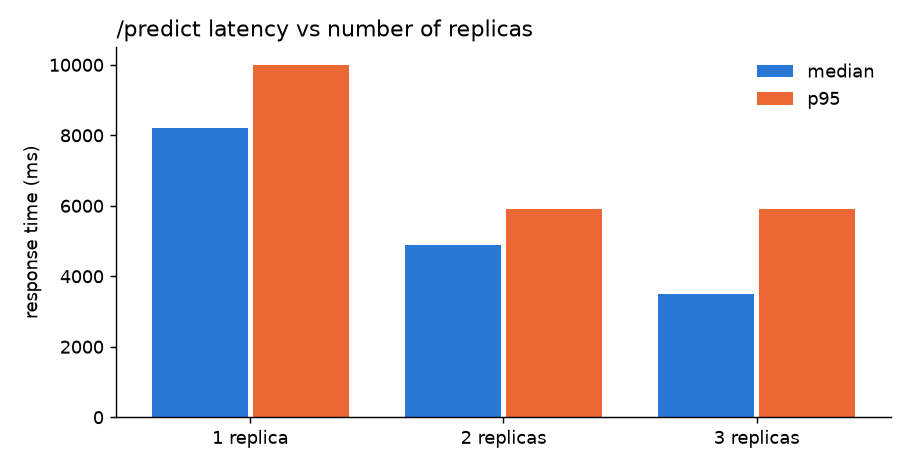
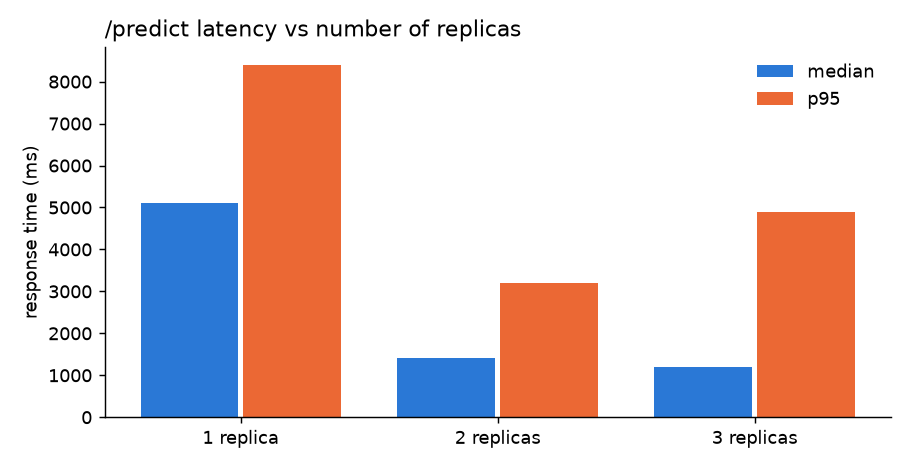
Update load test results and scripts
- Modified the summary of load test results in `summary.md` to reflect updated metrics for local worker configurations.
- Changed the load testing script `run_load_tests_local.py` to use the Python executable directly instead of the locust executable for better compatibility.

diff --git a/scripts/run_load_tests_local.py b/scripts/run_load_tests_local.py
@@ -13,7 +13,6 @@ from pathlib import Path
 
 ROOT = Path(__file__).resolve().parent.parent
 PY = sys.executable
-LOCUST = str(Path(PY).with_name("locust.exe" if os.name == "nt" else "locust"))
 USERS = sys.argv[1] if len(sys.argv) > 1 else "30"
 DURATION = sys.argv[2] if len(sys.argv) > 2 else "60s"
 PORT = 8001
@@ -41,7 +40,7 @@ for n in (1, 2, 3):
     try:
         wait_ready()
         time.sleep(20 * n)  # let every worker finish loading the model
-        subprocess.run([LOCUST, "-f", "locust/locustfile.py", "--host", f"http://localhost:{PORT}", "--headless",
+        subprocess.run([PY, "-m", "locust", "-f", "locust/locustfile.py", "--host", f"http://localhost:{PORT}", "--headless",
                         "-u", USERS, "-r", "5", "-t", DURATION, "--csv", str(RES / f"local_{n}_workers"),
                         "--only-summary"], cwd=ROOT, check=False)
     finally:

diff --git a/README.md b/README.md
@@ -207,18 +207,19 @@ locust -f locust/locustfile.py --host http://localhost:8000   # → http://local
 
 | Replicas | Requests | Failures | Avg (ms) | Median (ms) | p95 (ms) | p99 (ms) | Throughput (req/s) |
 |---:|---:|---:|---:|---:|---:|---:|---:|
-| 1 | 167 | 0 | 8,264 | 8,200 | 10,000 | 10,000 | 2.88 |
-| 2 | 274 | 0 | 4,879 | 4,900 | 5,900 | 6,900 | 4.56 |
-| 3 | 361 | 0 | 3,660 | 3,500 | 5,900 | 8,000 | 5.97 |
+| 1 | 252 | 0 | 4,949 | 5,100 | 8,400 | 8,900 | 4.50 |
+| 2 | 630 | 0 | 1,572 | 1,400 | 3,200 | 5,700 | 10.45 |
+| 3 | 606 | 0 | 1,681 | 1,200 | 4,900 | 6,100 | 10.08 |
 
 ![latency chart](locust/results/latency.png)
 
-**Interpretation.** A single prediction takes about 300 ms when the server is idle. Under a flood of 30
-concurrent users, one replica saturates and requests queue, so the median response time grows to about 8 s.
-Adding replicas spreads the queue: going from 1 to 3 replicas **doubles throughput (2.9 → 6.0 req/s) and cuts
-median latency by 57 % (8.2 s → 3.5 s)**, with zero failed requests. Gains shrink after 2 replicas because the
-test machine has only 2 physical CPU cores, which all replicas and the Locust client share. On a cloud host with
-one CPU per container, scaling would stay closer to linear.
+**Interpretation.** A single prediction takes about 70–100 ms when the server is idle. Under a flood of 30
+concurrent users, one replica saturates and requests queue, so the median response time grows to about 5 s.
+Adding a second replica spreads the queue: **throughput rises 2.3× (4.5 → 10.5 req/s) and median latency drops
+by 73 % (5.1 s → 1.4 s)**, with zero failed requests in every run. A third replica brings no further gain
+(10.1 req/s, median 1.2 s but a worse p95) because the test machine has only 2 physical CPU cores, which all
+replicas and the Locust client share: once both cores are busy, an extra replica only adds competition for them.
+On a cloud host with one CPU per container, scaling would continue further.
 
 > These numbers were measured locally on an Intel i5-7200U (2 cores / 4 threads, 8 GB RAM), with each replica
 > running as an independent uvicorn worker process holding its own copy of the model

diff --git a/locust/results/summary.md b/locust/results/summary.md
@@ -1,5 +1,5 @@
 | Setup           |   Replicas |   Requests |   Failures |   Avg (ms) |   Median (ms) |   p95 (ms) |   p99 (ms) |   Max (ms) |   Throughput (req/s) |
 |:----------------|-----------:|-----------:|-----------:|-----------:|--------------:|-----------:|-----------:|-----------:|---------------------:|
-| local_1_workers |          1 |        167 |          0 |       8264 |          8200 |      10000 |      10000 |      10568 |                 2.88 |
-| local_2_workers |          2 |        274 |          0 |       4879 |          4900 |       5900 |       6900 |       6937 |                 4.56 |
-| local_3_workers |          3 |        361 |          0 |       3660 |          3500 |       5900 |       8000 |       9550 |                 5.97 |
+| local_1_workers |          1 |        252 |          0 |       4949 |          5100 |       8400 |       8900 |       9444 |                 4.5  |
+| local_2_workers |          2 |        630 |          0 |       1572 |          1400 |       3200 |       5700 |       6468 |                10.45 |
+| local_3_workers |          3 |        606 |          0 |       1681 |          1200 |       4900 |       6100 |       7988 |                10.08 |
